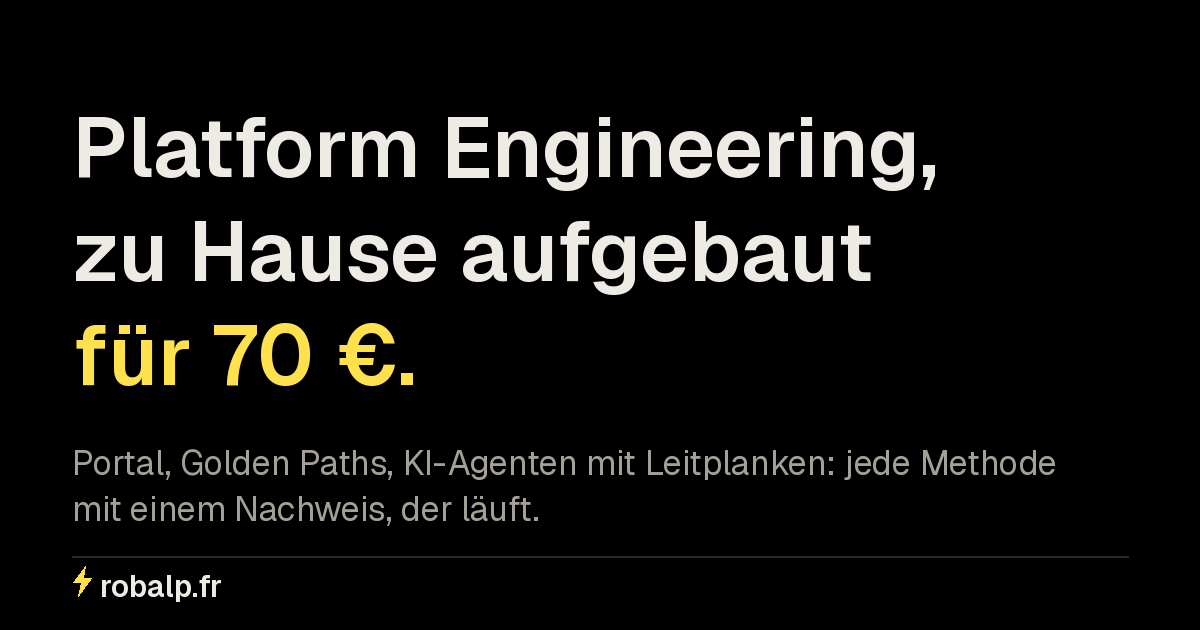
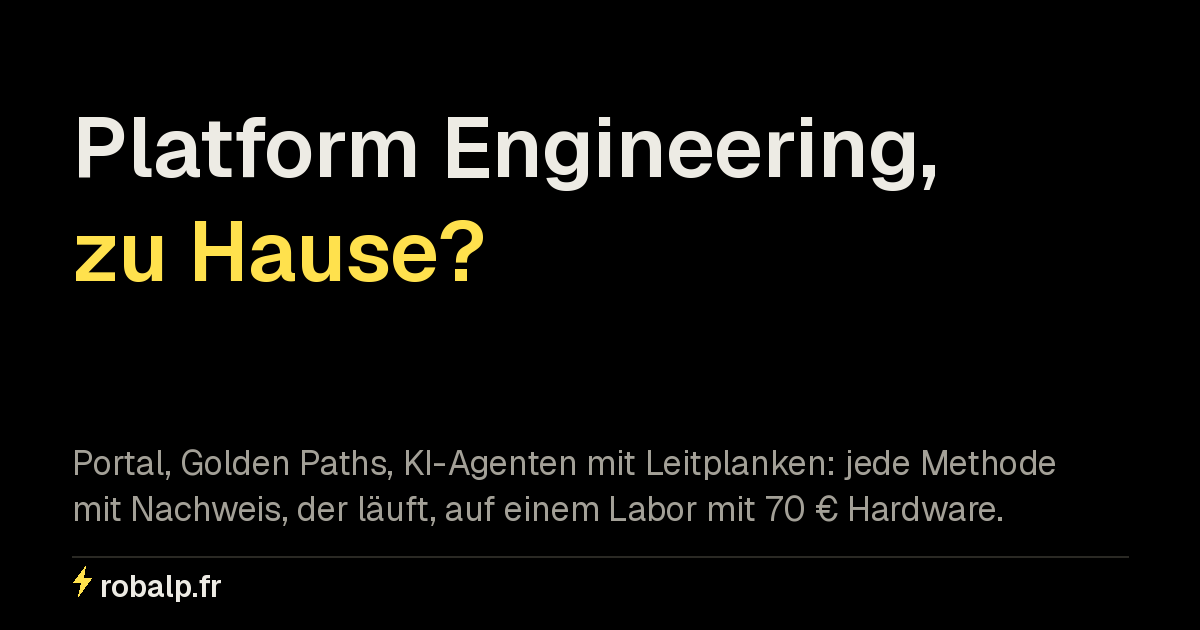
Titre d'accroche « à la maison ? » et briques CNCF sur la page architecture (#4)
Le « pour 70 € » du titre était lu comme un prix d'accès. Le montant reste,
présenté comme le coût du matériel. La page architecture gagne le tableau
des 17 briques et de leur maturité CNCF (relevé du 18/11, GRL-109).

Claude-Session: https://claude.ai/code/session_01DHSoYTJBK94TwPPf7gbyRu

diff --git a/outils/generer.py b/outils/generer.py
@@ -482,6 +482,7 @@ def page_architecture(t, c, donnees):
 
 <div class="replis">
   {repli(t("materiel", "titre"), tableau(t, t.liste("materiel", "colonnes"), t.liste("materiel", "lignes")))}
+  {repli(t("briques", "titre"), f'<p>{t("briques", "texte")}</p>' + tableau(t, t.liste("briques", "colonnes"), t.liste("briques", "lignes")))}
   {repli(t("chemin", "titre"), etapes(t, "chemin"))}
   {repli_points(t, "principes")}
   {repli_texte(t, "gpu")}
